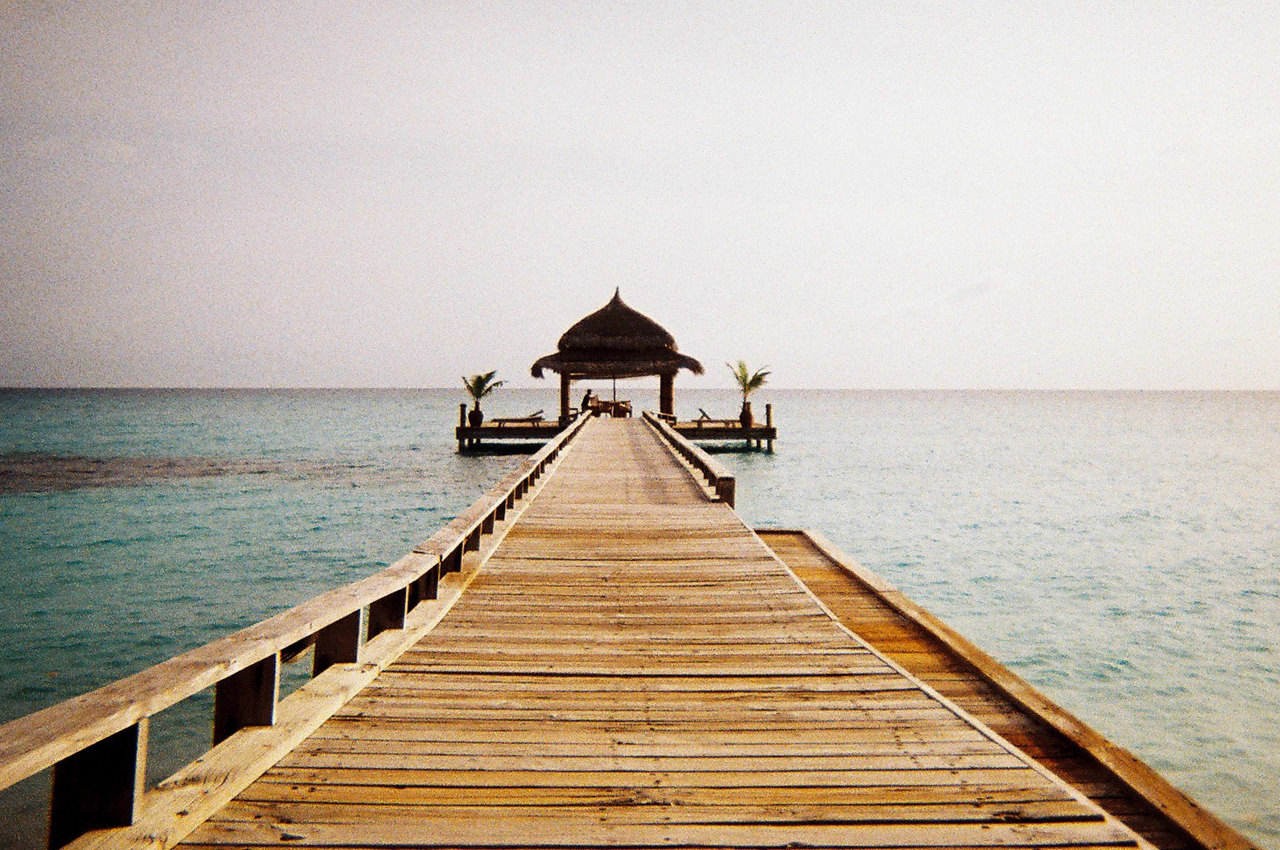
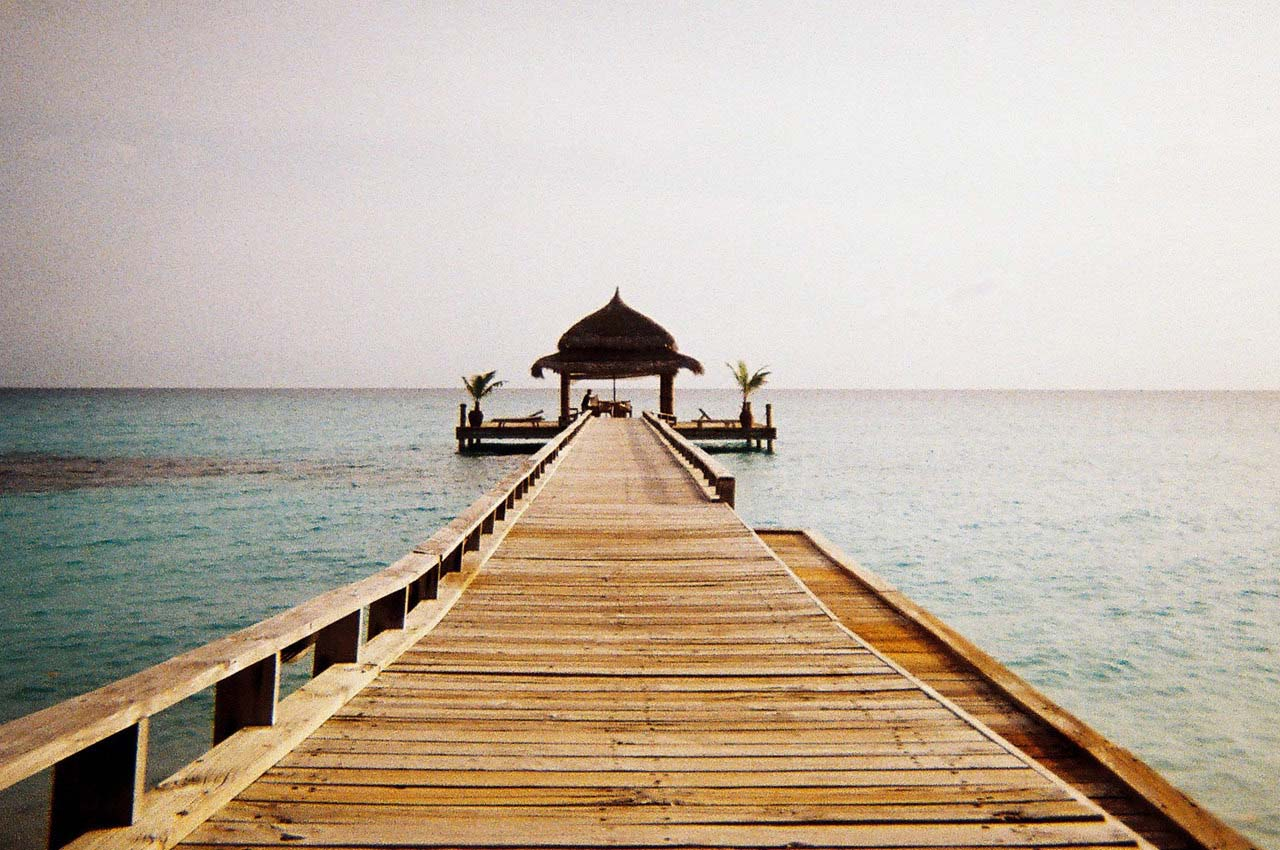
optimized project pictures & added forgiveness space around menu box & added scroll arrow

diff --git a/source/css/modulest/_introtext.scss b/source/css/modulest/_introtext.scss
@@ -16,14 +16,30 @@
 .introtext__first-line{
   position: absolute;
   color: $white;
-  font-size: 3.1;
+  font-size: 3.1rem;
   left: 1rem;
   right: 1rem;
-  bottom: 15vh;
+  bottom: 16vh;
 
   @media #{$small}{
-    font-size: 4.5rem;
-    bottom: 8vh;
+    bottom: 0vh;
   }
 }
 
+.introtext__title{
+  color: $white;
+  font-size: 3.1rem;
+  
+  @media #{$small}{
+      font-size: 4.5rem;
+  }
+}
+
+.introtext__transparent{
+  color: transparentize($white,.5);
+}
+
+.introtext__scroll-alert{
+  @extend .is-text__centered;
+  @include transition(.5)
+}

diff --git a/source/css/modulest/_nav.scss b/source/css/modulest/_nav.scss
@@ -14,7 +14,6 @@
   width:  2rem;
   height: 2rem;
   background: $gray-dark;
-  overflow: hidden;
   margin: 0 0 .4rem .4rem;
   border-radius: .2rem;
   box-shadow: 0 .1rem .1rem rgba(0,0,0,.3);
@@ -31,8 +30,7 @@
 
   &:before{
     content: "";
-    background: pink;
-    position: relative;
+    position: absolute;
     left: -1rem;
     height: 2rem;
     width: 2rem;
@@ -51,7 +49,7 @@
   position: relative;
   z-index: 5;
   width: 8rem;
-  overflow: scroll;
+ ; overflow: scroll;
   -webkit-overflow-scrolling: touch;
 }
 

diff --git a/source/projects/2013-08-08-projecthumanity.md b/source/projects/2013-08-08-projecthumanity.md
@@ -3,7 +3,7 @@ title: Project Humanity
 date: 2013-08-08 00:34 UTC
 tags:
 summary: changing humanity through film
-splashimage: photo.jpg
+splashimage: photo-optim.jpg
 branch: |
   <script type="text/javascript" src="http://embed-script.branch.com/assets/embed/embed.m.js?body=0" data-branch-embedid="eCYF3r7YMRk" ></script> <noscript><a href="http://branch.com/b/facundo-element">facundo element</a></noscript>
 ---
